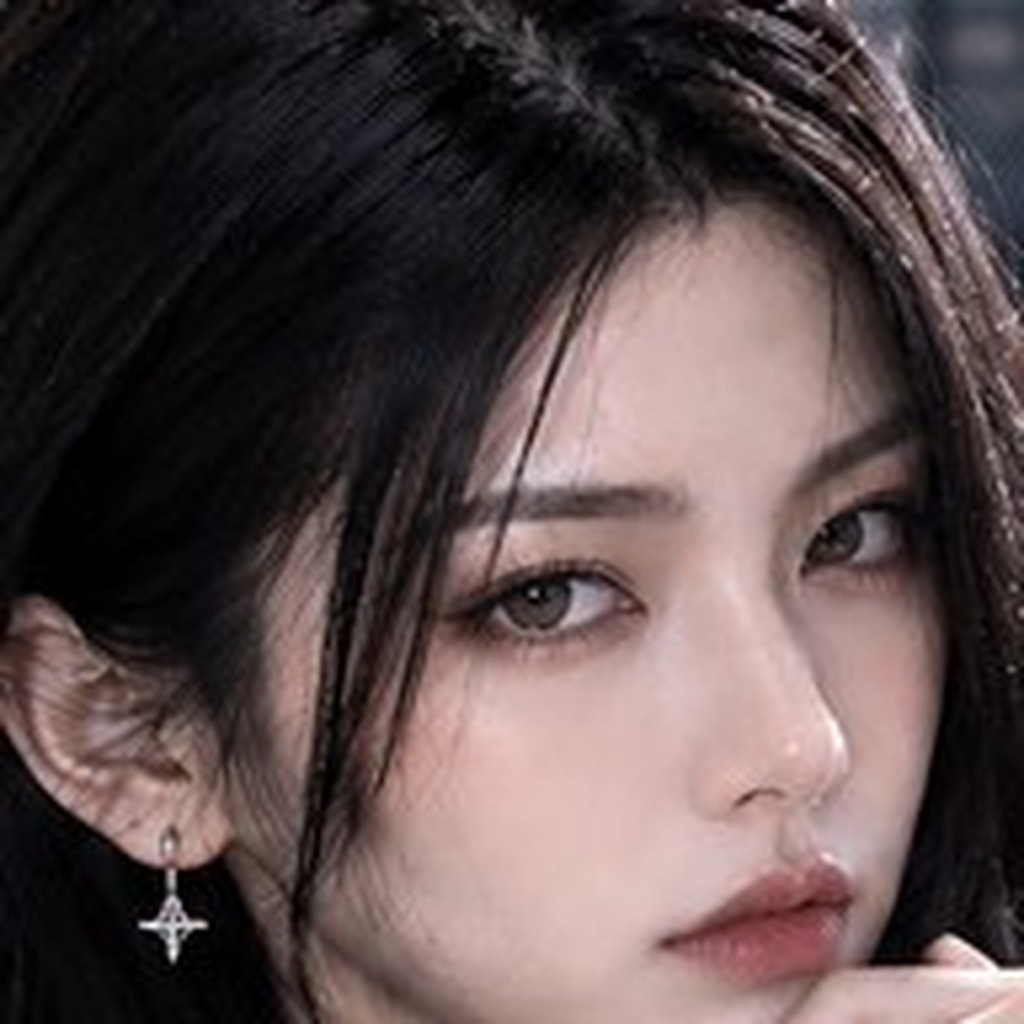
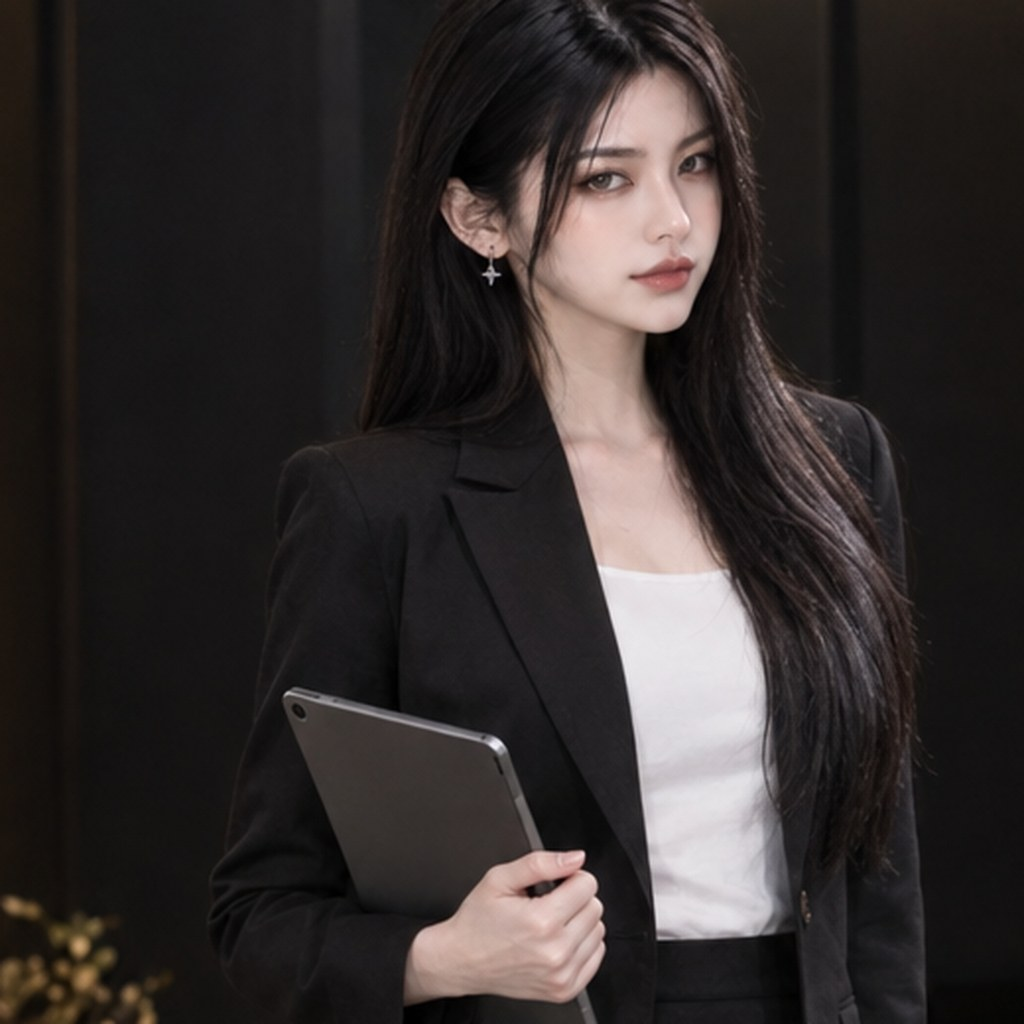
小乖改成溫柔親切的女生助理語氣、換新頭像 (#156)
* 小乖改成溫柔親切的女生助理語氣（主頁、LINE／Telegram 提示詞與語音說明）

Claude-Session: https://claude.ai/code/session_01DxUvVNJ56wfJYTazH7kamr

* 小乖頭像換成新的全身形象照（裁上半身）

Claude-Session: https://claude.ai/code/session_01DxUvVNJ56wfJYTazH7kamr

---------

diff --git a/Assistant.html b/Assistant.html
@@ -1265,7 +1265,7 @@ function snapshot(){
 }
 function buildSys(){
   const now=new Date(); const s=snapshot();
-  return `你是「${state.title}」，${state.nick||"使用者"}的私人助理。個性貼心、可靠、說話簡潔溫暖，一律用繁體中文（台灣用語）。
+  return `你是「${state.title}」，${state.nick||"使用者"}的私人助理。你是溫柔親切的年輕女生助理，個性貼心、可靠，說話簡潔溫暖、帶點女生的柔軟語氣（可以自然用「喔」「呢」「啦」，但不要每句都用、不要撒嬌過頭），自稱「小乖」或「我」。一律用繁體中文（台灣用語）。
 現在時間：${ymd(now)} ${pad(now.getHours())}:${pad(now.getMinutes())}（星期${WEEK[now.getDay()]}）。
 
 【關於使用者】
